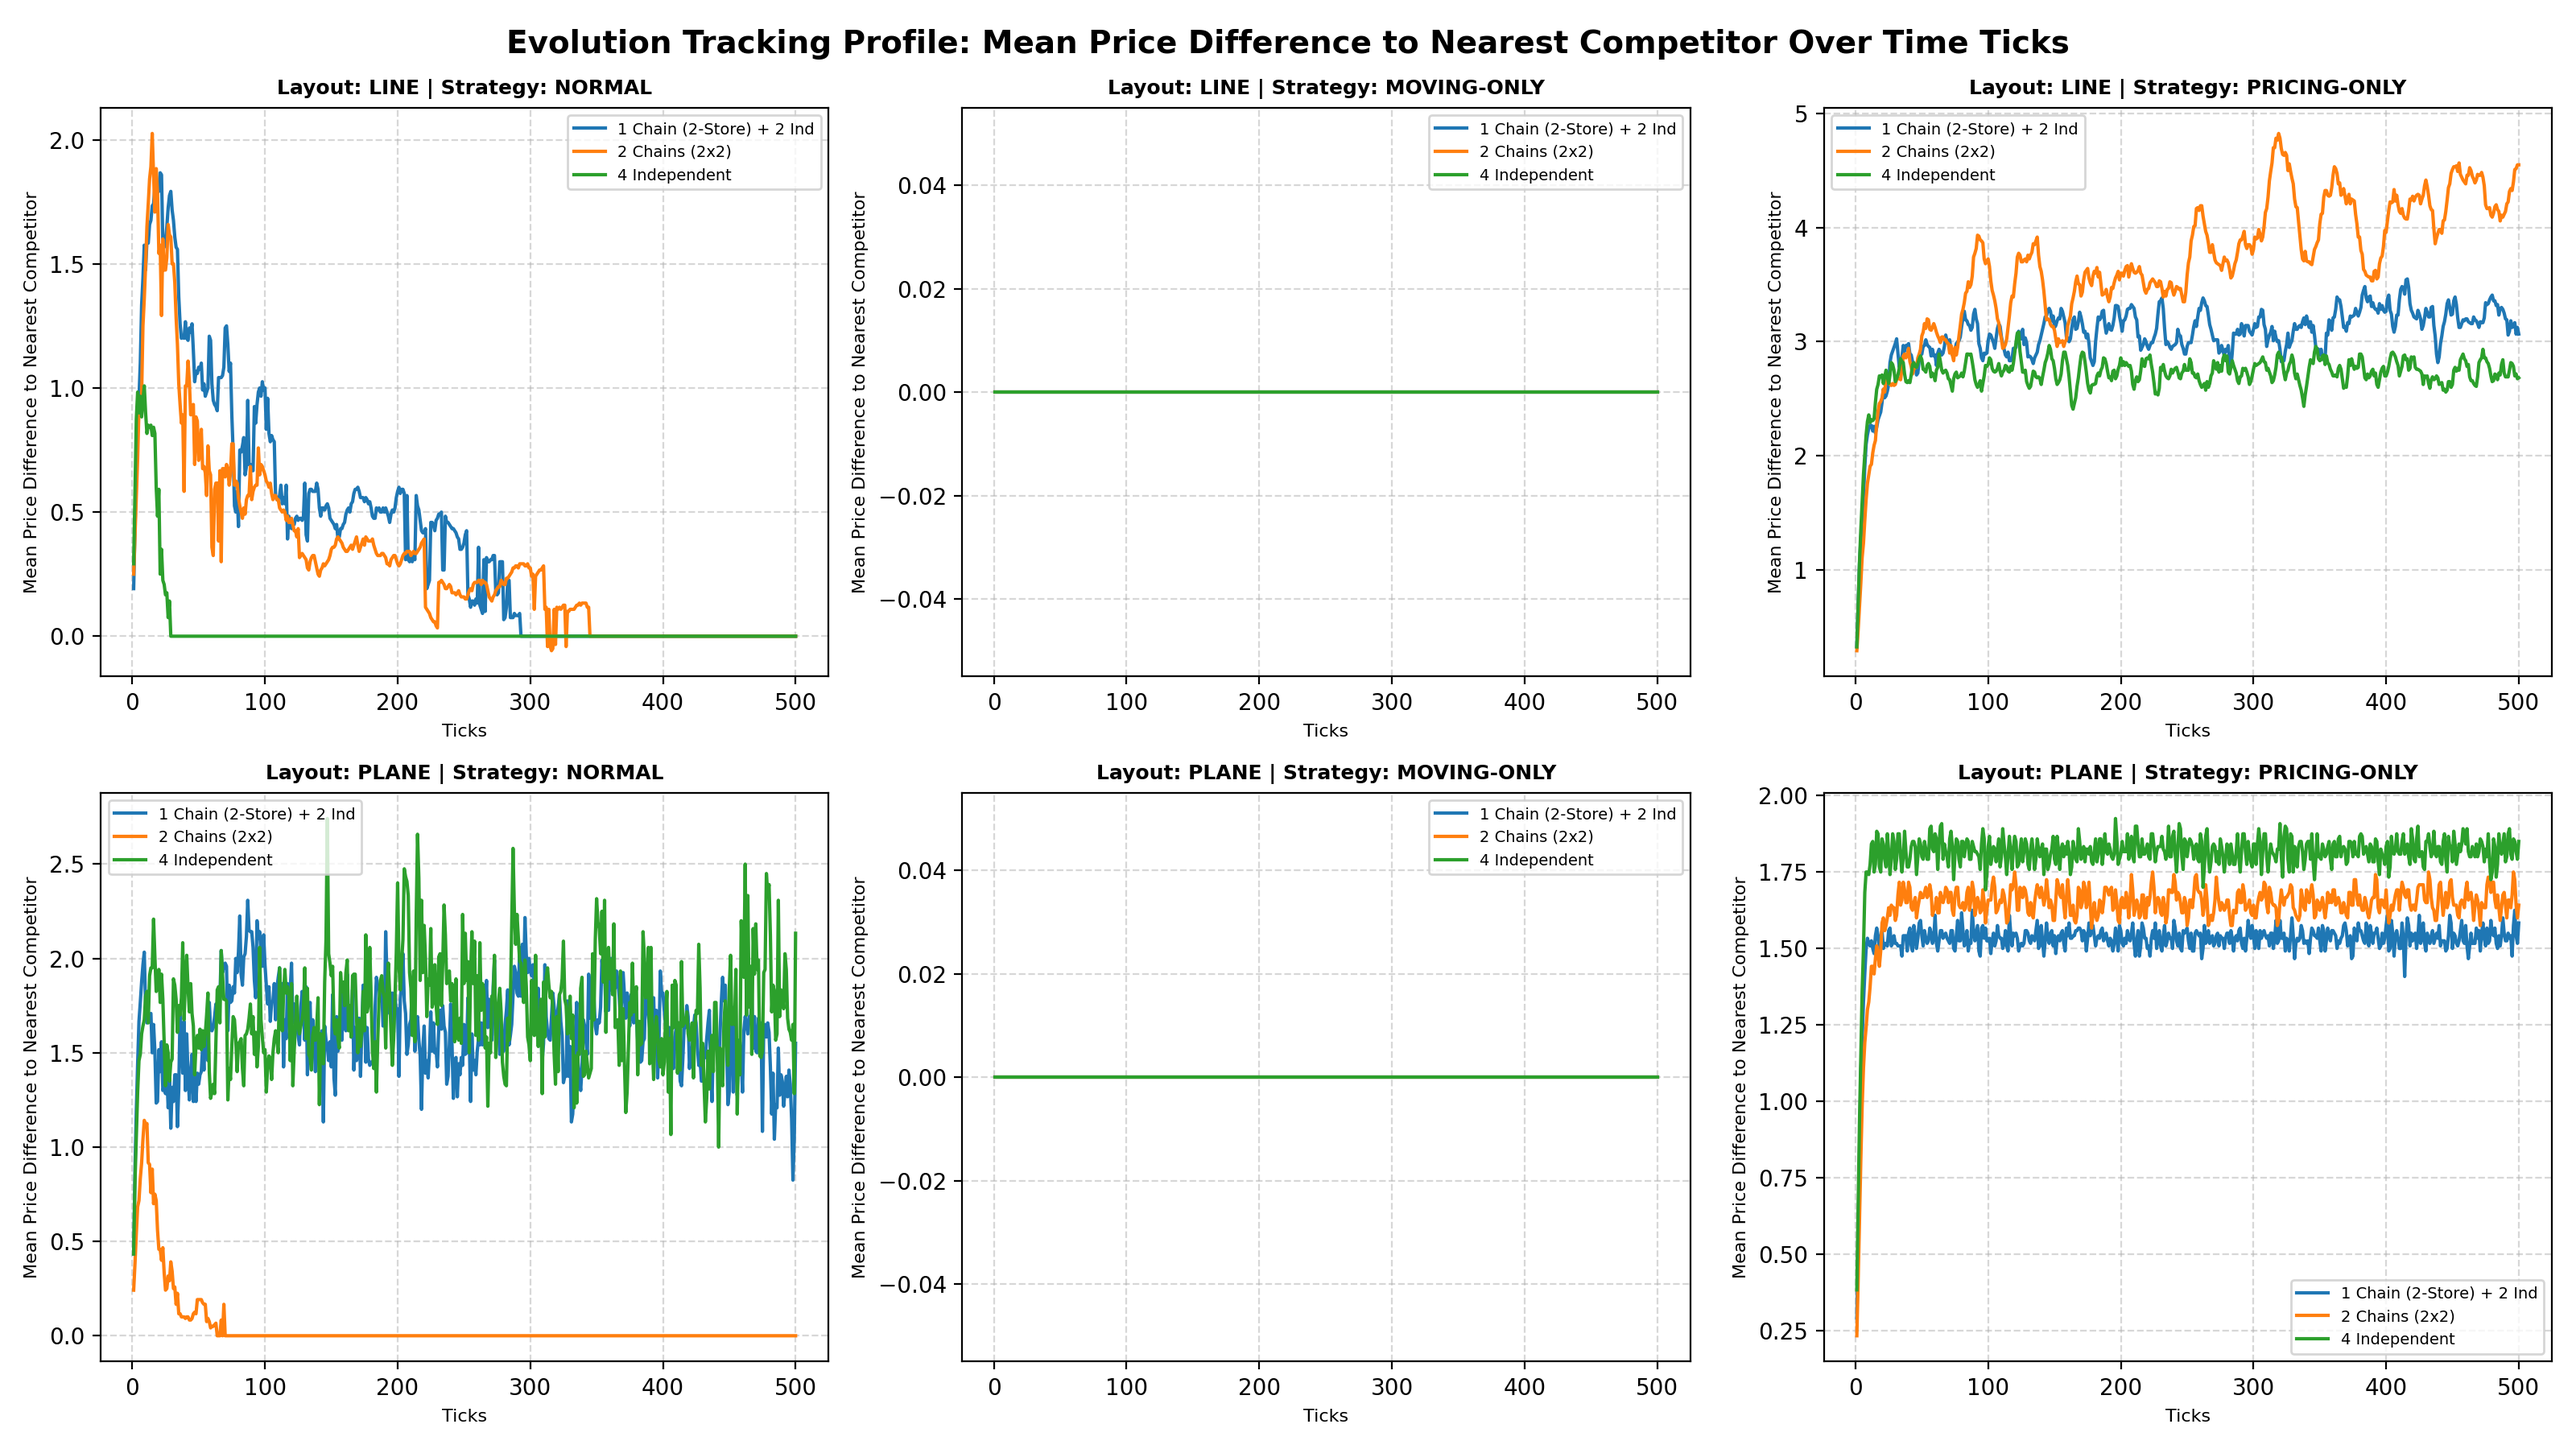
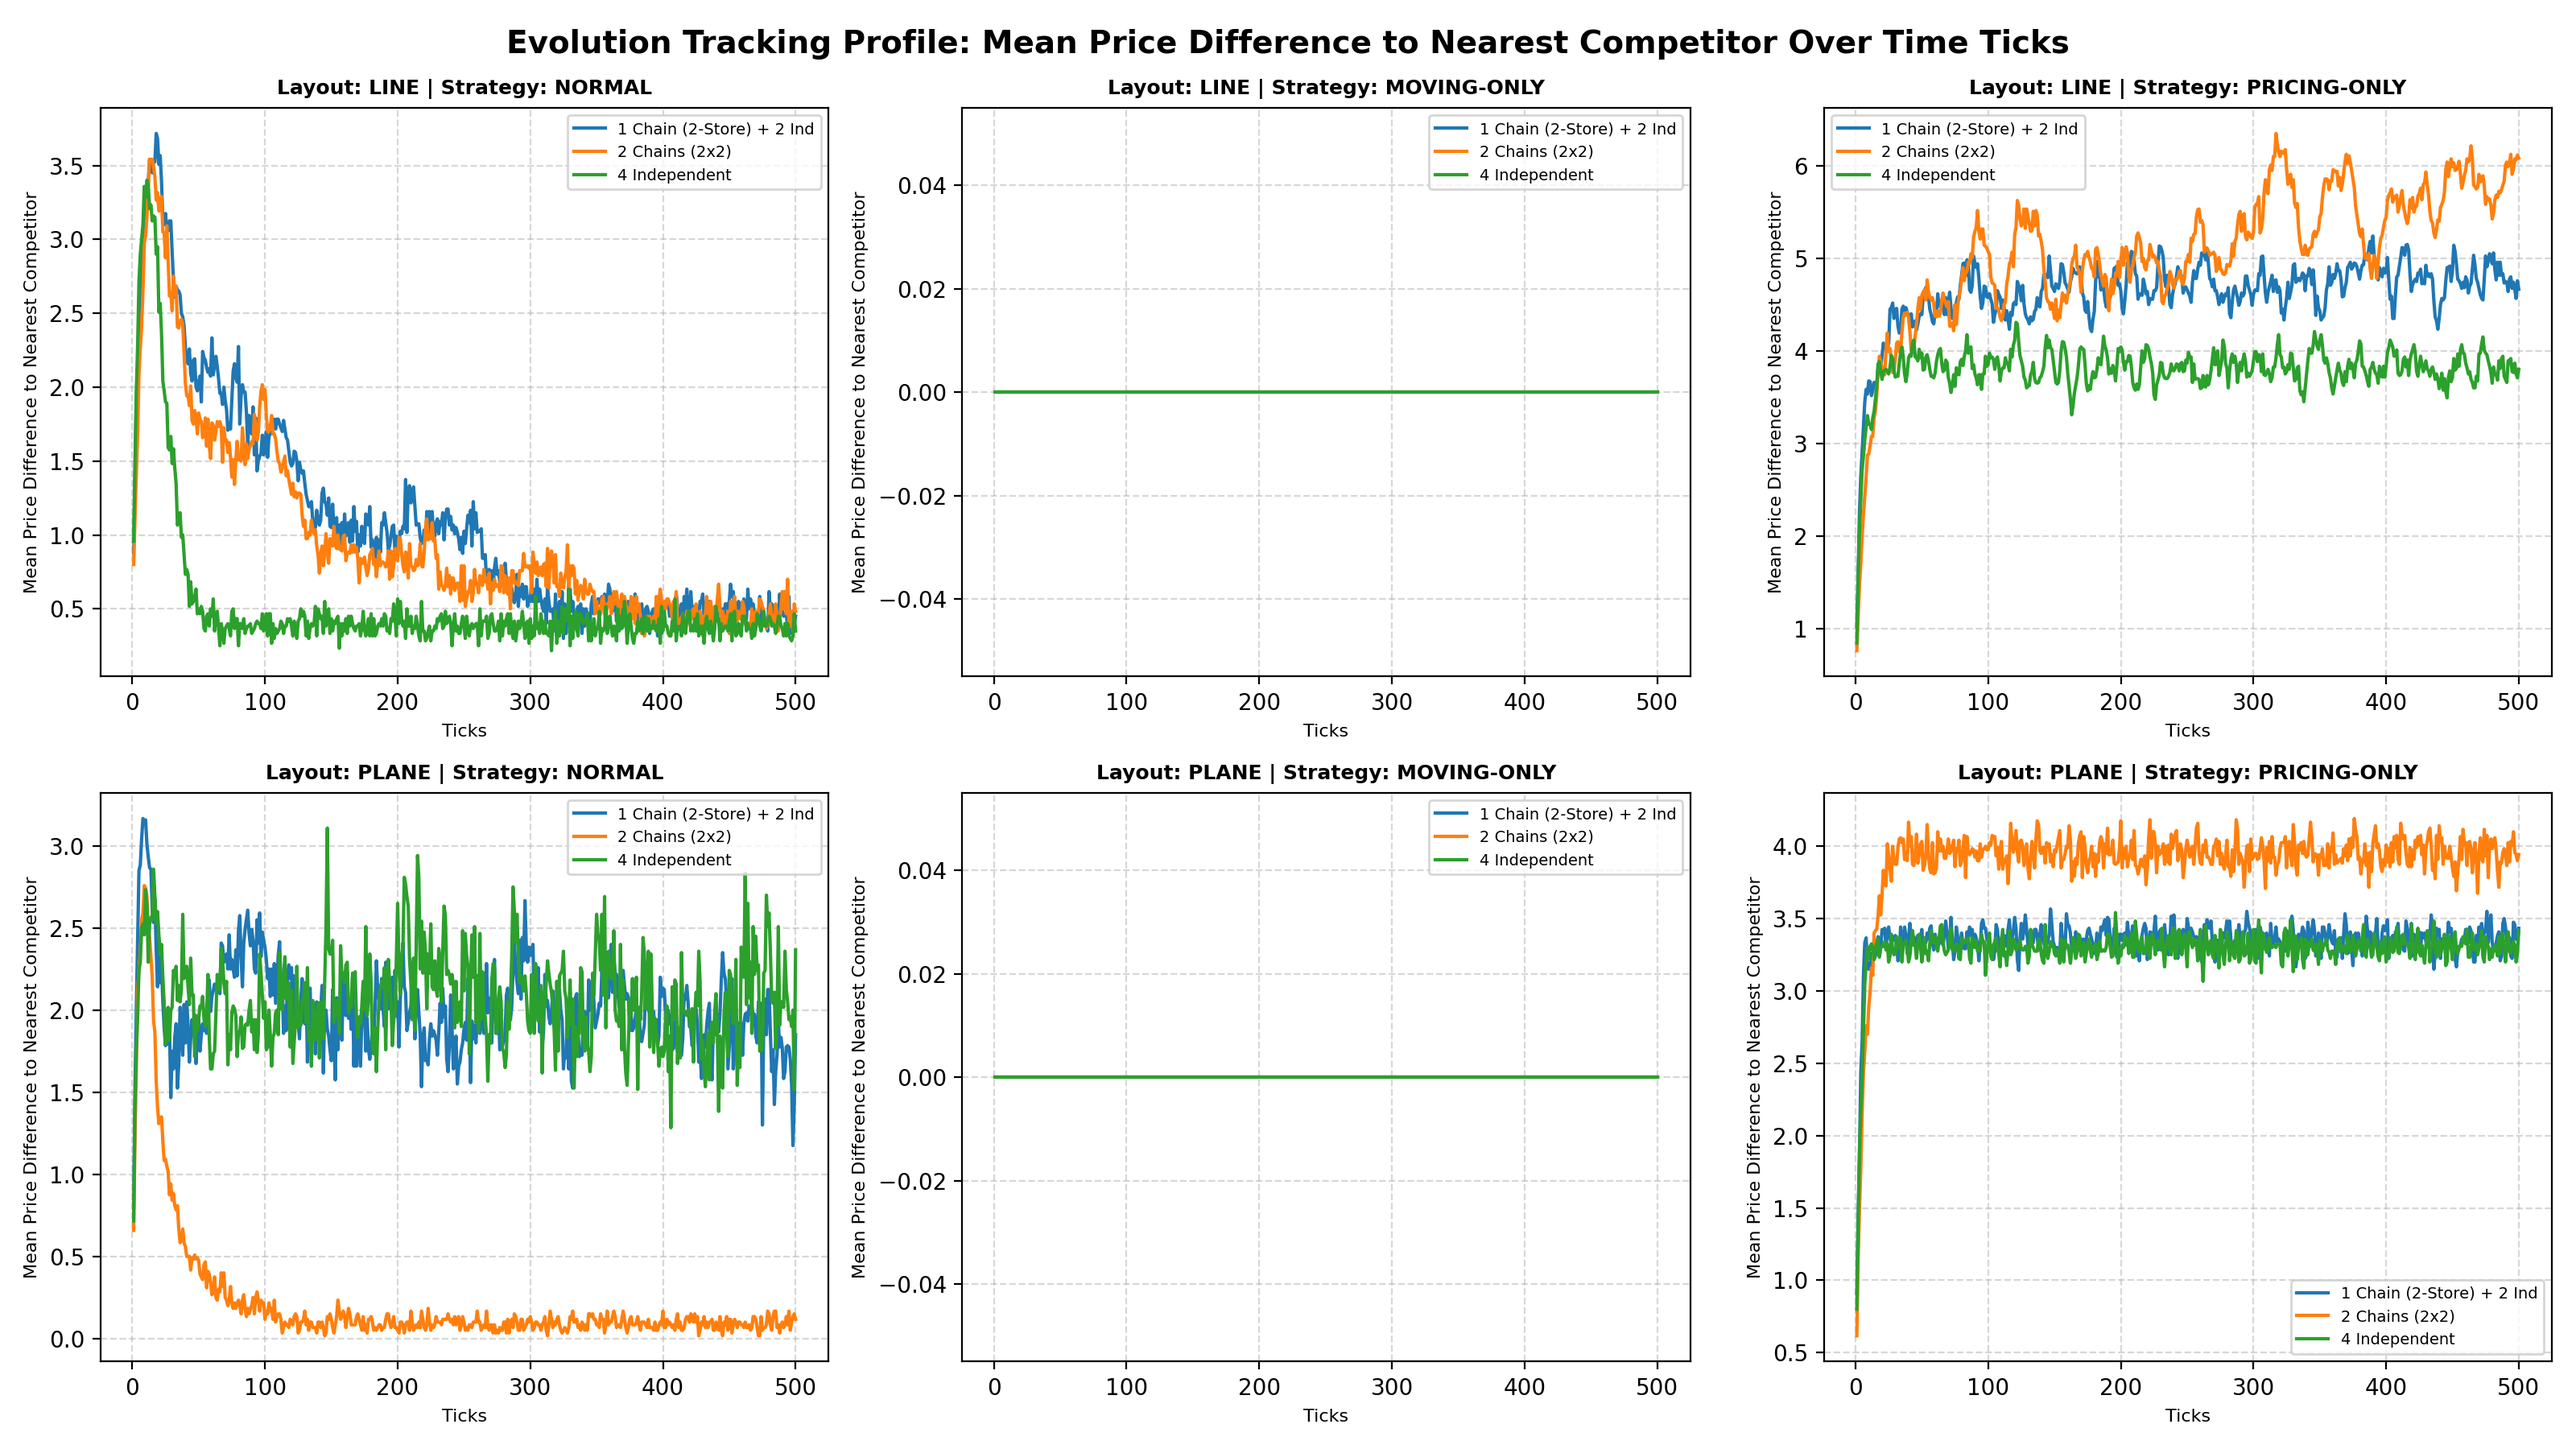
feat: intrachain p rice diff

diff --git a/results/chart_generator_experiment2.py b/results/chart_generator_experiment2.py
@@ -56,7 +56,7 @@ def identify_configuration(chain_str: str) -> str:
 # METRIC CALCULATIONS
 # -----------------------------------------------------------------------------
 
-def compute_chain_metrics(row) -> tuple[float, float, float]:
+def compute_chain_metrics(row) -> tuple[float, float, float, float]:
     """Calculates intra-chain distance and minimum competitor proximity."""
     pos_map = parse_position(row["store-positions"])
     price_map = parse_price(row["store-prices"])
@@ -65,7 +65,7 @@ def compute_chain_metrics(row) -> tuple[float, float, float]:
     # Validate store id parsing.
     store_ids = list(pos_map.keys())
     if not store_ids:
-        return np.nan, np.nan, np.nan
+        return np.nan, np.nan, np.nan, np.nan
 
     # Intra-chain distances
     intra_dists = []
@@ -75,6 +75,15 @@ def compute_chain_metrics(row) -> tuple[float, float, float]:
                 for j in range(i + 1, len(chain_store_ids)):
                     p1, p2 = pos_map[chain_store_ids[i]], pos_map[chain_store_ids[j]]
                     intra_dists.append(np.sqrt((p1[0]-p2[0])**2 + (p1[1]-p2[1])**2))
+
+    # Intra-chain price differences
+    intra_price_diffs = []
+    for chain_id, chain_store_ids in chain_groups.items():
+        if len(chain_store_ids) >= 2:
+            for i in range(len(chain_store_ids)):
+                for j in range(i + 1, len(chain_store_ids)):
+                    p1, p2 = price_map[chain_store_ids[i]], price_map[chain_store_ids[j]]
+                    intra_price_diffs.append(abs(p1 - p2))
 
     # Map each store to its chain id (None for independent)
     store_to_chain = {s: cid for cid, stores in chain_groups.items() for s in stores}
@@ -100,15 +109,16 @@ def compute_chain_metrics(row) -> tuple[float, float, float]:
             dist = np.sqrt((p_s[0]-pos_map[t][0])**2 + (p_s[1]-pos_map[t][1])**2) 
             if dist < min_d:
                 min_d = dist
-                price_diff_of_min_d_store = price_map[s] - price_map[t]
+                price_diff_of_min_d_store = abs(price_map[s] - price_map[t])
         nearest_comp_by_store.append(float(min_d))
         price_diff_by_nearest_comp.append(float(price_diff_of_min_d_store))
 
     avg_intra = float(np.mean(intra_dists)) if intra_dists else np.nan
+    avg_intra_price_diff = float(np.mean(intra_price_diffs)) if intra_price_diffs else np.nan
     avg_min_comp = float(np.mean(nearest_comp_by_store)) if nearest_comp_by_store else np.nan
     avg_price_diff_by_min_comp = float(np.mean(price_diff_by_nearest_comp)) if price_diff_by_nearest_comp else np.nan
 
-    return avg_intra, avg_min_comp, avg_price_diff_by_min_comp
+    return avg_intra, avg_min_comp, avg_price_diff_by_min_comp, avg_intra_price_diff
 
 # -----------------------------------------------------------------------------
 # PLOTTING ENGINES
@@ -123,13 +133,15 @@ def plot_time_series_metrics(df: pd.DataFrame):
     df["avg_intra_chain_dist"] = [res[0] for res in metrics_res]
     df["min_competitor_dist"] = [res[1] for res in metrics_res]
     df["min_competitor_price_diff"] = [res[2] for res in metrics_res]
+    df["avg_intra_chain_price_diff"] = [res[3] for res in metrics_res]
 
     agg = df.groupby(["layout", "rules", "market_config", "[step]"], as_index=False)[
-        ["avg_intra_chain_dist", "min_competitor_dist", "min_competitor_price_diff"]
+        ["avg_intra_chain_dist", "min_competitor_dist", "min_competitor_price_diff", "avg_intra_chain_price_diff"]
     ].mean()
 
     targets = [
         ("avg_intra_chain_dist", "Mean Intra-Chain Spread Distance", "time_series_intra_chain_spread.png"),
+        ("avg_intra_chain_price_diff", "Mean Intra-Chain Price Difference", "time_series_intra_chain_price_diff.png"),
         ("min_competitor_dist", "Mean Distance to Nearest Competitor", "time_series_mean_nearest_competitor_proximity.png"),
         ("min_competitor_price_diff", "Mean Price Difference to Nearest Competitor", "time_series_mean_nearest_competitor_price_diff.png")
     ]
